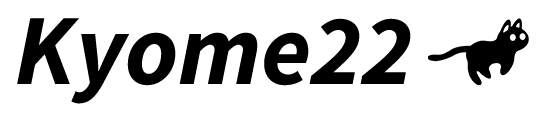
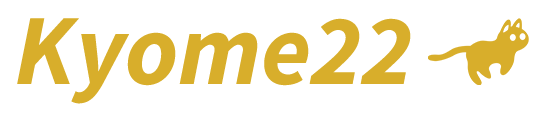
バナー画像更新

Changed region(s): [[0.0309, 0.1565, 0.7727, 0.913], [0.7727, 0.1565, 0.9891, 0.7304]]

diff --git a/README.md b/README.md
@@ -1,4 +1,4 @@
-![banner](https://github.com/Kyome22/Kyome22/blob/master/banner.png)
+![banner](https://github.com/Kyome22/Kyome22/raw/master/banner.png)
 
 [![uhooi's github stats](https://github-readme-stats.vercel.app/api?username=Kyome22&show_icons=true)](https://github.com/Kyome22)
 
